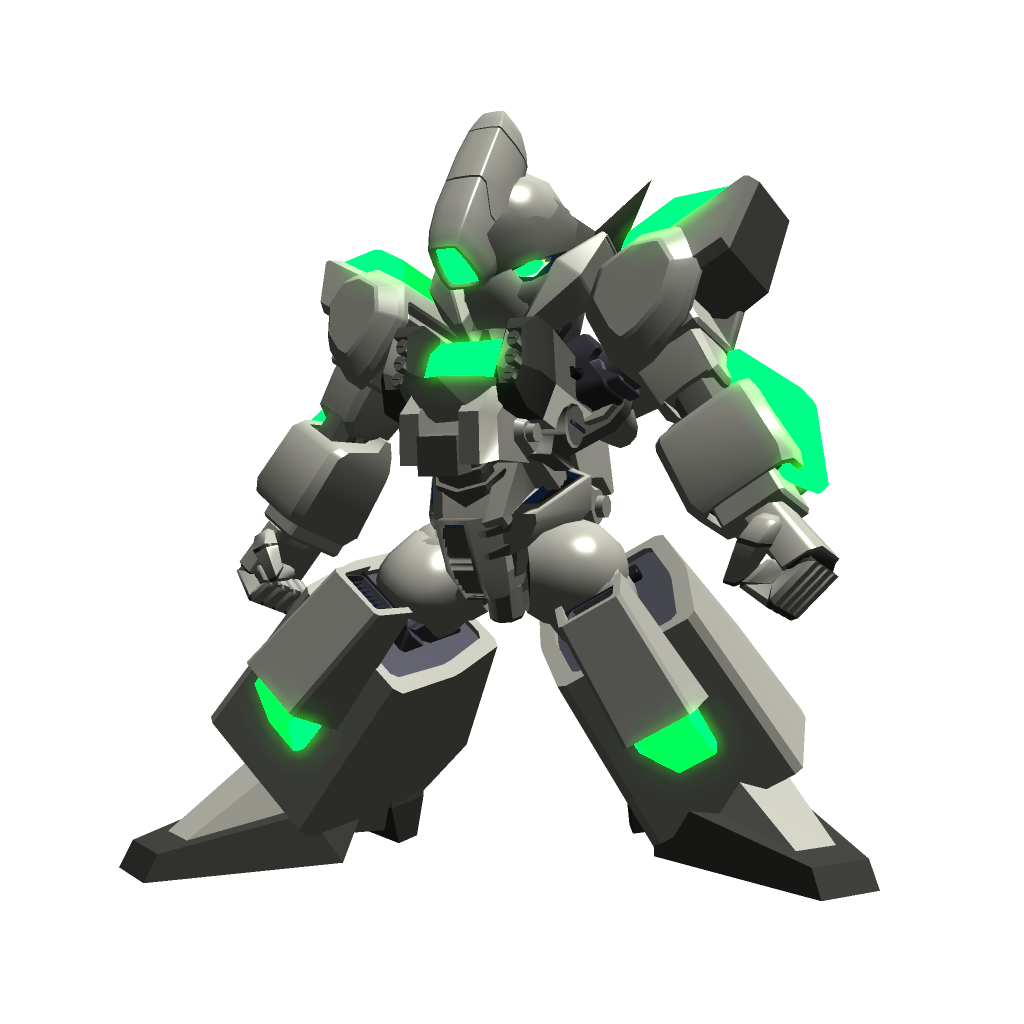
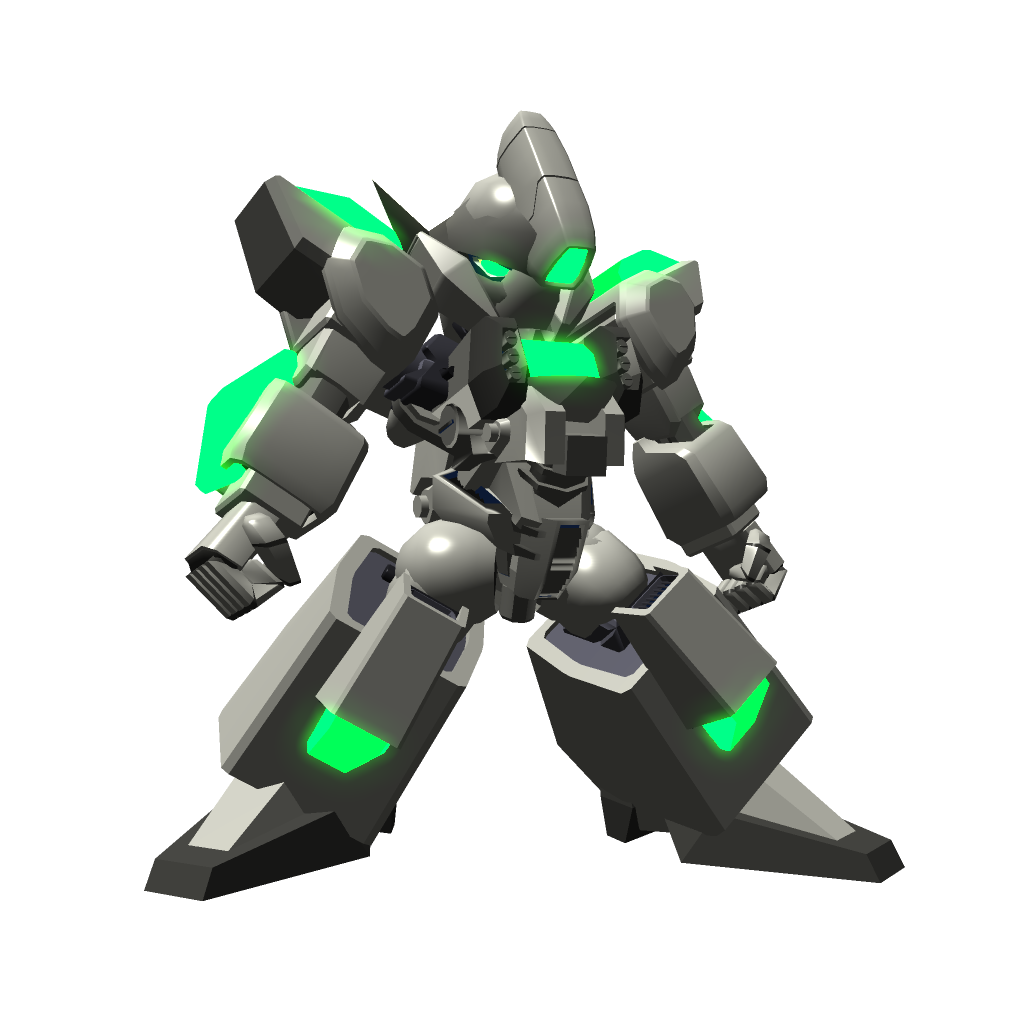
画像を左右反転して無駄なスケール調整をしないようにした

Changed region(s): [[0.125, 0.0938, 0.875, 0.9062]]

diff --git a/src/02-use-tween/index.js b/src/02-use-tween/index.js
@@ -15,6 +15,6 @@ requestAnimationFrame(gameLoop);
 
 function setPlayerPosition({x, y}) {
   const playerImg = document.querySelector('.player');
-  const transform = `translate(${x}px, ${y}px) scale(-1, 1)`;
+  const transform = `translate(${x}px, ${y}px)`;
   playerImg.style.setProperty('transform', transform);
 }

diff --git a/src/01-move-player/index.js b/src/01-move-player/index.js
@@ -9,6 +9,6 @@ requestAnimationFrame(gameLoop);
 
 function setPlayerPosition({x, y}) {
   const playerImg = document.querySelector('.player');
-  const transform = `translate(${x}px, ${y}px) scale(-1, 1)`;
+  const transform = `translate(${x}px, ${y}px)`;
   playerImg.style.setProperty('transform', transform);
 }
